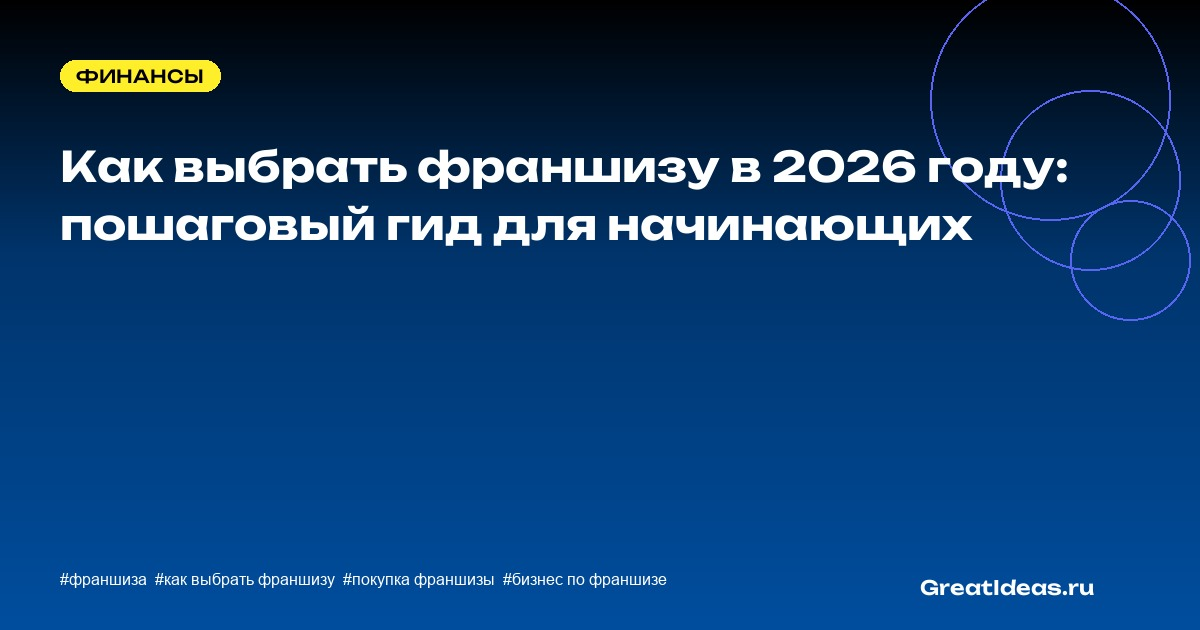
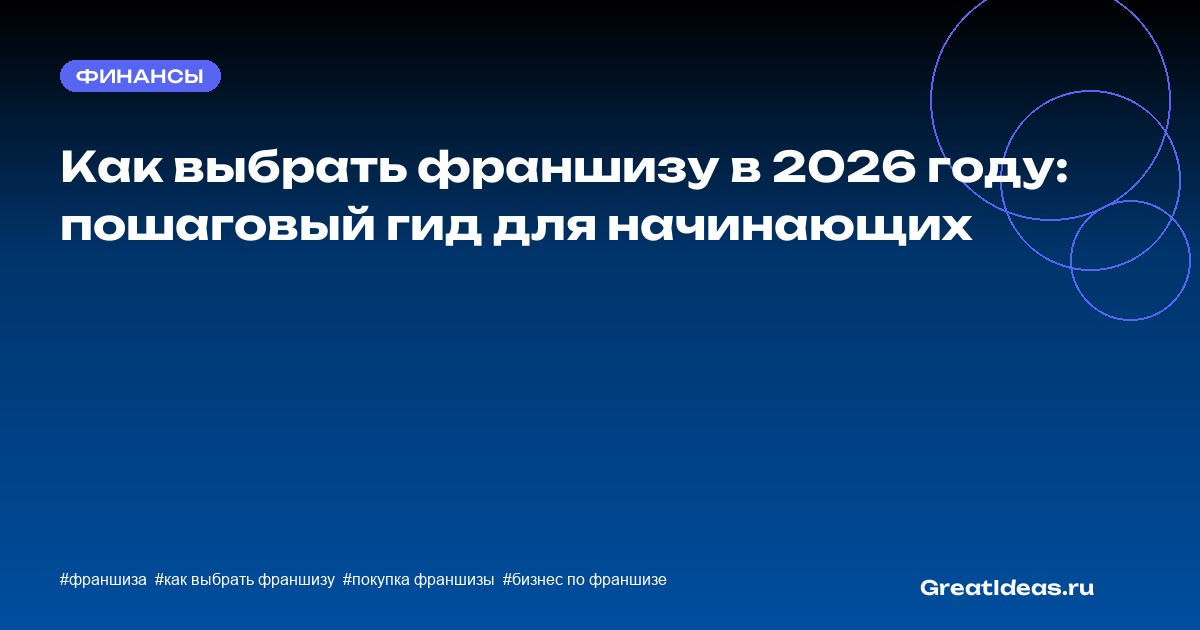
fix: purple accent in images, fix text overlap, reorder sections
- Replace yellow (#ffef2b) accent with brand purple (#5865f2)
- Auto-size stats font to prevent text overlap in narrow columns
- Move stats image after section 2 (intro context), checklist after
  section 4 (franchisor verification) for logical flow

Changed region(s): [[0.0308, 0.0905, 0.185, 0.1508]]

diff --git a/content/generate_images.py b/content/generate_images.py
@@ -29,7 +29,7 @@ FONTS_DIR = ROOT / "static" / "accounts" / "fonts"
 GRADIENT_TOP = (0, 0, 0)           # #000000
 GRADIENT_MID = (0, 52, 107)        # #00346b
 GRADIENT_BOT = (0, 78, 159)        # #004e9f
-ACCENT_YELLOW = (255, 239, 43)     # #ffef2b
+ACCENT = (88, 101, 242)            # #5865f2 — brand purple
 WHITE = (255, 255, 255)
 WHITE_70 = (255, 255, 255, 178)
 OVERLAY = (0, 0, 0, 100)
@@ -142,8 +142,8 @@ def generate_cover(title, category_slug="", tags="", output_path=None):
     bbox = draw.textbbox((0, 0), badge_text, font=font_cat)
     bw = bbox[2] - bbox[0] + 32
     bh = bbox[3] - bbox[1] + 16
-    _draw_rounded_rect(draw, (60, 60, 60 + bw, 60 + bh), radius=bh // 2, fill=ACCENT_YELLOW)
-    draw.text((60 + 16, 60 + 5), badge_text, fill=(0, 0, 0), font=font_cat)
+    _draw_rounded_rect(draw, (60, 60, 60 + bw, 60 + bh), radius=bh // 2, fill=ACCENT)
+    draw.text((60 + 16, 60 + 5), badge_text, fill=WHITE, font=font_cat)
 
     # Title
     font_title = _load_font("Unbounded-Bold", 42)
@@ -197,7 +197,7 @@ def generate_section_image(
     draw.rectangle([0, 0, W, H], fill=(10, 15, 30))
 
     # Accent top border
-    draw.rectangle([0, 0, W, 4], fill=ACCENT_YELLOW)
+    draw.rectangle([0, 0, W, 4], fill=ACCENT)
 
     # Title
     font_title = _load_font("Unbounded-SemiBold", 28)
@@ -248,12 +248,12 @@ def _draw_infographic(draw, items, start_y, W, H):
 
         # Number circle
         cx, cy = 90, y + 22
-        draw.ellipse([cx - 22, cy - 22, cx + 22, cy + 22], fill=ACCENT_YELLOW)
+        draw.ellipse([cx - 22, cy - 22, cx + 22, cy + 22], fill=ACCENT)
         num_text = str(i)
         bbox = draw.textbbox((0, 0), num_text, font=font_num)
         nw = bbox[2] - bbox[0]
         nh = bbox[3] - bbox[1]
-        draw.text((cx - nw // 2, cy - nh // 2 - 4), num_text, fill=(0, 0, 0), font=font_num)
+        draw.text((cx - nw // 2, cy - nh // 2 - 4), num_text, fill=WHITE, font=font_num)
 
         # Label
         draw.text((130, y), label, fill=WHITE, font=font_item)
@@ -273,8 +273,8 @@ def _draw_comparison(draw, items, start_y, W, H):
 
     # Column headers
     if items and isinstance(items[0], dict) and "left_title" in items[0]:
-        draw.text((60, start_y), items[0]["left_title"], fill=ACCENT_YELLOW, font=font_head)
-        draw.text((mid + 30, start_y), items[0]["right_title"], fill=ACCENT_YELLOW, font=font_head)
+        draw.text((60, start_y), items[0]["left_title"], fill=ACCENT, font=font_head)
+        draw.text((mid + 30, start_y), items[0]["right_title"], fill=ACCENT, font=font_head)
         items = items[1:]
         start_y += 45
 
@@ -291,8 +291,7 @@ def _draw_comparison(draw, items, start_y, W, H):
 
 def _draw_stats(draw, items, start_y, W, H):
     """Big numbers with labels (items = [{"value": "500K", "label": "..."}, ...])."""
-    font_val = _load_font("Unbounded-Bold", 52)
-    font_lbl = _load_font("Inter-Variable", 16)
+    font_lbl = _load_font("Inter-Variable", 14)
 
     count = min(len(items), 4)
     if count == 0:
@@ -306,8 +305,15 @@ def _draw_stats(draw, items, start_y, W, H):
         val = item.get("value", "")
         lbl = item.get("label", "")
 
-        draw.text((x, start_y + 20), val, fill=ACCENT_YELLOW, font=font_val)
-        draw.text((x, start_y + 85), lbl, fill=WHITE_70, font=font_lbl)
+        # Auto-size font to fit column width
+        for size in (44, 38, 32, 26):
+            font_val = _load_font("Unbounded-Bold", size)
+            bbox = draw.textbbox((0, 0), val, font=font_val)
+            if bbox[2] - bbox[0] <= col_w - 20:
+                break
+
+        draw.text((x, start_y + 20), val, fill=ACCENT, font=font_val)
+        draw.text((x, start_y + 80), lbl, fill=WHITE_70, font=font_lbl)
 
 
 def _draw_checklist(draw, items, start_y, W, H):
@@ -318,7 +324,7 @@ def _draw_checklist(draw, items, start_y, W, H):
     for item in items[:8]:
         text = item if isinstance(item, str) else item.get("label", str(item))
         # Checkmark
-        draw.text((60, y), "✓", fill=ACCENT_YELLOW, font=font_item)
+        draw.text((60, y), "✓", fill=ACCENT, font=font_item)
         draw.text((95, y), text, fill=WHITE, font=font_item)
         y += 45
 
